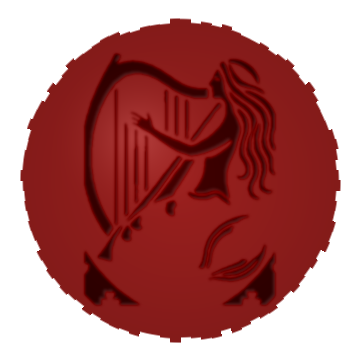
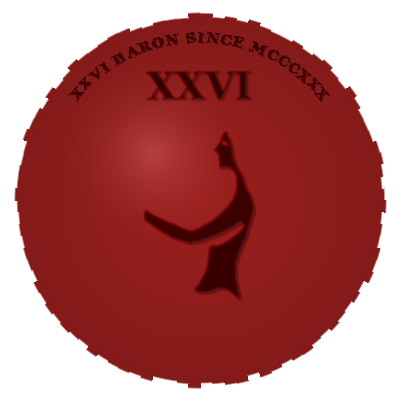
Fergus letterhead: revised header, sign-off, seal, body in handwriting
Four refinements per the Chief's direction:

1. HEADER subline RESTORED. 'An Ancient Gaelic Royal House' is
   back beneath the clan name as preferred. The previous removal
   was over-correction.

2. SIGN-OFF in single font. 'Fergus Kinfauns, The Commane' and
   'Chief of Ó Comáin' both now in the same EB Garamond serif at
   the same size and weight, no italic-gold treatment on 'The
   Commane'. Cleaner, more unified.

3. WAX SEAL redrawn — mermaid only, no harp.
   - Just the mermaid figure (extracted from the right side of
     the shield, harp removed) embossed in the centre of the
     wax disc
   - 'XXVI' Roman numeral above her — referencing the 26th
     Lord Kinfauns, the Chief's subtle Scottish title held
     since 1330 (not used in Ireland, but quietly carried)
   - 'XXVI BARON SINCE MCCCXXX' legend curving around the
     top edge in small serif caps — the historical anchor in
     classical form
   - Same wax aesthetic preserved: deep red, hand-pressed
     irregular edge, embossed 3D feel, directional lighting
   File: the_commane_seal.png (40KB, 400x400 RGBA)

4. BODY in HANDWRITING font. Replaced the prior draft body copy
   with the Chief's own letter, set in 'Caveat' (Google Fonts) —
   refined cursive that reads naturally at body sizes. Falls back
   to Bradley Hand / cursive on clients that block web fonts. The
   body now genuinely feels like a personal letter rather than
   typed correspondence.
[…]

Changed region(s): [[0.0306, 0.0306, 0.9778, 0.9778]]

diff --git a/email-previews-fergus-mockup/the-chiefs-letter.html b/email-previews-fergus-mockup/the-chiefs-letter.html
@@ -5,6 +5,14 @@
   <meta name="robots" content="noindex,nofollow">
   <meta name="viewport" content="width=device-width, initial-scale=1.0">
   <title>The Chief's letter — preview · Clan Ó Comáin</title>
+
+  <!-- Handwriting font for the body — 'Caveat' is a refined, slightly
+       irregular handwriting face that reads as natural cursive at body
+       sizes. Loaded from Google Fonts; falls back to Bradley Hand /
+       cursive on clients that don't load web fonts. -->
+  <link rel="preconnect" href="https://fonts.googleapis.com">
+  <link rel="preconnect" href="https://fonts.gstatic.com" crossorigin>
+  <link href="https://fonts.googleapis.com/css2?family=Caveat:wght@400;500&display=swap" rel="stylesheet">
 </head>
 <body style="margin:0;padding:24px 12px;background:#f3eee2;font-family:'EB Garamond','Georgia',serif">
 
@@ -13,9 +21,6 @@
 
     <!-- =============================================================
          THE LETTERHEAD ITSELF
-         Heavy cream paper with subtle texture, gold rule frames,
-         engraved-style header, blind-stamp watermark, plain warm body,
-         handwritten signature, no CTA button.
          ============================================================= -->
     <div style="position:relative;background:#FAF4E6;background-image:radial-gradient(ellipse at center,#FBF6E9 0%,#F5EFD8 100%);border:1px solid #D8C99A;box-shadow:0 24px 64px rgba(20,30,15,.16),0 4px 12px rgba(20,30,15,.08);overflow:hidden">
 
@@ -25,11 +30,14 @@
         <!-- ─────────── HEADER ─────────── -->
         <div style="padding:42px 48px 32px;text-align:center;border-bottom:1px solid rgba(184,151,90,.4);position:relative">
 
-          <!-- Engraved-style coat of arms — small, refined -->
+          <!-- Engraved-style coat of arms -->
           <img src="https://www.ocomain.org/coat_of_arms.png" alt="Clan Ó Comáin" width="68" style="display:block;margin:0 auto 14px;height:auto;opacity:.92">
 
-          <!-- The clan name only — letter-spaced like an engraver's plate -->
-          <p style="font-family:'EB Garamond','Georgia',serif;font-size:13px;font-weight:600;letter-spacing:.32em;color:#8B6F32;margin:0 0 18px;text-transform:uppercase">Ó Comáin</p>
+          <!-- The clan name — letter-spaced like an engraver's plate -->
+          <p style="font-family:'EB Garamond','Georgia',serif;font-size:11px;font-weight:600;letter-spacing:.32em;color:#8B6F32;margin:0 0 4px;text-transform:uppercase">Clan Ó Comáin</p>
+
+          <!-- Italic subline — restored per Chief's preference -->
+          <p style="font-family:'EB Garamond','Georgia',serif;font-size:13px;font-style:italic;color:#6C5A4A;margin:0 0 18px;letter-spacing:.04em">An Ancient Gaelic Royal House</p>
 
           <!-- Decorative gold rule with diamond ornament -->
           <div style="display:inline-block;text-align:center">
@@ -38,7 +46,7 @@
             <div style="display:inline-block;width:50px;height:1px;background:#B8975A;vertical-align:middle"></div>
           </div>
 
-          <!-- "From the desk of..." — the engraved address line -->
+          <!-- "From the desk of..." — engraved address line -->
           <p style="font-family:'EB Garamond','Georgia',serif;font-size:10px;font-weight:600;letter-spacing:.22em;color:#5A4A2F;margin:14px 0 0;text-transform:uppercase">From the desk of the Chief</p>
           <p style="font-family:'EB Garamond','Georgia',serif;font-size:10px;letter-spacing:.18em;color:#7A6A4F;margin:4px 0 0;text-transform:uppercase">Newhall Estate &middot; County Clare &middot; Ireland</p>
 
@@ -52,43 +60,44 @@
             <img src="https://www.ocomain.org/coat_of_arms.png" alt="" width="380" style="display:inline-block;opacity:.05;height:auto;max-width:80%">
           </div>
 
-          <!-- Body content sits above the watermark -->
-          <div style="position:relative;z-index:1">
+          <!-- Body content — Fergus's own words, set in a handwriting font -->
+          <div style="position:relative;z-index:1;font-family:'Caveat','Bradley Hand',cursive;color:#1F2A1F">
 
             <!-- Salutation -->
-            <p style="font-family:'EB Garamond','Georgia',serif;font-size:18px;color:#1A1A1A;line-height:1.5;margin:0 0 24px">Dear Aoife,</p>
+            <p style="font-size:28px;line-height:1.4;margin:0 0 18px;font-weight:500">Dear Aoife,</p>
 
-            <!-- Body paragraphs — slightly larger and more breathable than standard -->
-            <p style="font-family:'EB Garamond','Georgia',serif;font-size:18px;color:#1F2A1F;line-height:1.85;margin:0 0 22px">A short word from Newhall, by my own hand.</p>
+            <p style="font-size:24px;line-height:1.55;margin:0 0 14px;font-weight:400">It is my pleasure to welcome you to the newly revived Clan Ó Comáin!</p>
 
-            <p style="font-family:'EB Garamond','Georgia',serif;font-size:18px;color:#1F2A1F;line-height:1.85;margin:0 0 22px">It is the custom of the Office to send the formalities — the certificate, the seal, the entry in the Register. I wanted to write to you directly, beyond all of that, simply to say that I am glad you are here.</p>
+            <p style="font-size:24px;line-height:1.55;margin:0 0 14px;font-weight:400">After a long suppression of 800 years, the clan is back, and I am thrilled that you have chosen to be a part of our founding family in 2026.</p>
 
-            <p style="font-family:'EB Garamond','Georgia',serif;font-size:18px;color:#1F2A1F;line-height:1.85;margin:0 0 22px">The clan came near to vanishing. Between the Penal years, the Famine, and the great emigrations that followed, the line frayed almost to nothing. That you and others are choosing to gather back to it now — from across the world, across the surnames the Anglicising clerks scattered, across the long centuries — is the slow undoing of that long unmaking.</p>
+            <p style="font-size:24px;line-height:1.55;margin:0 0 14px;font-weight:400">I am incredibly excited to grow our community and would love for you to help &amp; support me and be a part of that journey. I encourage you to browse our website to learn more about our shared heritage, the fascinating history of Irish clans, and how our ancestors lived under Brehon Law. Don&apos;t forget to explore the special Private Members&apos; area.</p>
 
-            <p style="font-family:'EB Garamond','Georgia',serif;font-size:18px;color:#1F2A1F;line-height:1.85;margin:0 0 22px">Whatever brought you to the door, you are welcome at it. Whatever your line, whatever name you carry, your place in the Register is real and the seal upon your certificate is set by my own hand.</p>
+            <p style="font-size:24px;line-height:1.55;margin:0 0 14px;font-weight:400">Here&rsquo;s to a long and wonderful friendship!</p>
 
-            <p style="font-family:'EB Garamond','Georgia',serif;font-size:18px;color:#1F2A1F;line-height:1.85;margin:0 0 32px">Linda and the Office shall write to you in the weeks to come on the matters that need attending to. From me, only this: there is a house in County Clare where the lights are on, and you have a place at it.</p>
+            <!-- Sign-off — Slán go fóill in italic with translation -->
+            <p style="font-size:24px;line-height:1.55;margin:0 0 8px;font-weight:400;font-style:italic">Slán go fóill <span style="font-style:normal;color:#5A6A5A;font-size:20px">— (goodbye for now)</span></p>
 
-            <!-- Sign-off line -->
-            <p style="font-family:'EB Garamond','Georgia',serif;font-size:18px;font-style:italic;color:#1F2A1F;line-height:1.6;margin:0 0 8px">Yours, in clan and kindred,</p>
-
-            <!-- Signature row: handwritten signature on the left, wax seal beside it on the right -->
-            <table role="presentation" cellpadding="0" cellspacing="0" border="0" style="margin:8px 0 0;border-collapse:collapse">
+            <!-- Signature row: handwritten signature on the left, wax seal on the right -->
+            <table role="presentation" cellpadding="0" cellspacing="0" border="0" style="margin:18px 0 0;border-collapse:collapse">
               <tr>
-                <td style="vertical-align:middle;padding-right:24px">
-                  <!-- The handwritten signature image -->
+                <td style="vertical-align:middle;padding-right:28px">
                   <img src="https://www.ocomain.org/the_commane_signature.png" alt="The Commane (signed)" style="display:block;width:240px;height:auto">
                 </td>
                 <td style="vertical-align:middle">
-                  <!-- The wax seal — mermaid crest only, no shield -->
-                  <img src="https://www.ocomain.org/the_commane_seal.png" alt="Clan Ó Comáin · sealed by The Commane" style="display:block;width:84px;height:auto">
+                  <img src="https://www.ocomain.org/the_commane_seal.png" alt="The Commane · sealed" style="display:block;width:96px;height:auto">
                 </td>
               </tr>
             </table>
 
-            <!-- Below signature — small typed name and title -->
-            <p style="font-family:'EB Garamond','Georgia',serif;font-size:13px;color:#1A1A1A;letter-spacing:.02em;margin:14px 0 2px">Fergus Kinfauns, <em style="font-style:italic;color:#8B6F32">The Commane</em></p>
-            <p style="font-family:'EB Garamond','Georgia',serif;font-size:12px;color:#5A4A2F;letter-spacing:.02em;margin:0">Chief of Ó Comáin</p>
+            <!-- Below signature — name + title, both in single font / single style -->
+            <p style="font-family:'EB Garamond','Georgia',serif;font-size:13px;color:#1A1A1A;letter-spacing:.02em;margin:14px 0 2px;font-style:normal">Fergus Kinfauns, The Commane</p>
+            <p style="font-family:'EB Garamond','Georgia',serif;font-size:13px;color:#1A1A1A;letter-spacing:.02em;margin:0;font-style:normal">Chief of Ó Comáin</p>
+
+            <!-- Famous Fergus PS — handwritten, set off with thin gold left-rule -->
+            <p style="font-size:22px;line-height:1.55;margin:32px 0 0;padding-left:24px;border-left:2px solid #B8975A;color:#3A4A3A;font-weight:400">
+              <span style="font-family:'EB Garamond','Georgia',serif;font-size:11px;font-weight:700;letter-spacing:.18em;color:#8B6F32;text-transform:uppercase;display:block;margin-bottom:6px;font-style:normal">P.S.</span>
+              &ldquo;Know someone who belongs with us? Inviting them is easy through your members&apos; area!&rdquo;
+            </p>
 
           </div>
 
@@ -96,24 +105,18 @@
 
         <!-- ─────────── FOOTER ─────────── -->
         <div style="text-align:center;padding:18px 32px 28px;border-top:1px solid rgba(184,151,90,.4);background:rgba(184,151,90,.04)">
-
-          <!-- Decorative gold rule with diamond -->
           <div style="display:inline-block;text-align:center;margin-bottom:10px">
             <div style="display:inline-block;width:36px;height:1px;background:#B8975A;vertical-align:middle"></div>
             <span style="display:inline-block;width:5px;height:5px;background:#B8975A;transform:rotate(45deg);margin:0 8px;vertical-align:middle"></span>
             <div style="display:inline-block;width:36px;height:1px;background:#B8975A;vertical-align:middle"></div>
           </div>
-
           <p style="font-family:'EB Garamond','Georgia',serif;font-size:12px;font-style:italic;color:#8B6F32;margin:0 0 4px;letter-spacing:.02em">Caithfidh an stair a bheith i réim &mdash; History must prevail</p>
         </div>
 
       </div>
     </div>
 
-    <!-- =============================================================
-         OUTSIDE THE LETTERHEAD: a quiet email-client footer with the
-         compliance unsubscribe etc. NOT styled as part of the letter.
-         ============================================================= -->
+    <!-- Quiet email-client footer outside the letterhead -->
     <div style="max-width:580px;margin:24px auto 0;padding:0 16px;text-align:center;font-family:'EB Garamond','Georgia',serif;font-size:11px;color:#8a8576;line-height:1.6">
       <p style="margin:0 0 6px">This message is from the Chief of Clan Ó Comáin, sent to members of the kindred.</p>
       <p style="margin:0">Clan Ó Comáin &middot; Newhall House, County Clare, Ireland &middot; <a href="https://www.ocomain.org" style="color:#8B6F32">www.ocomain.org</a></p>
@@ -121,16 +124,12 @@
 
   </div>
 
-  <!-- =============================================================
-       NOTE FOR REVIEW PAGE — small annotation visible on this preview
-       only (not in the actual sent email).
-       ============================================================= -->
+  <!-- Notes panel for the Council & Chief — not part of the actual email -->
   <div style="max-width:640px;margin:48px auto 0;padding:24px 28px;background:#fff;border:1px solid #d8d2c0;border-left:3px solid #B8975A;border-radius:1px;font-family:'EB Garamond',serif;font-size:14px;line-height:1.65;color:#3a3a30">
-    <p style="margin:0 0 10px;font-family:'Helvetica Neue',sans-serif;font-size:10px;font-weight:700;letter-spacing:.18em;color:#8B6F32;text-transform:uppercase">Notes for the Council & Chief — not part of the email</p>
-    <p style="margin:0 0 10px"><strong>What this is.</strong> A standalone visual mockup of the Chief's letter, the second email in the new post-signup lifecycle (sent at +9 days). Distinct from every other email in the sequence — heavy cream paper, gold-rule frame, engraved header, blind-stamp watermark behind the body, the actual handwritten signature, no CTA button.</p>
-    <p style="margin:0 0 10px"><strong>Why no CTA.</strong> The Chief writes; he does not ask. The absence of a button is itself the status signal — every other email in the sequence has one, this is the one moment that does not.</p>
-    <p style="margin:0 0 10px"><strong>What is fixed before write-up.</strong> Visual chrome: paper texture, gold-rule frame, header layout, watermark, signature placement, footer treatment. Body copy is a draft — to be revised based on the Chief's voice and any additions he wishes to make.</p>
-    <p style="margin:0"><strong>Mock recipient.</strong> Aoife — a fictitious diaspora member used for preview rendering only.</p>
+    <p style="margin:0 0 10px;font-family:'Helvetica Neue',sans-serif;font-size:10px;font-weight:700;letter-spacing:.18em;color:#8B6F32;text-transform:uppercase">Notes for the Council &amp; Chief — not part of the email</p>
+    <p style="margin:0 0 10px"><strong>What is new in this revision.</strong> Header subline &lsquo;An Ancient Gaelic Royal House&rsquo; restored. Sign-off &lsquo;Fergus Kinfauns, The Commane&rsquo; now in a single font with no italic-gold treatment. Wax seal redrawn: just the mermaid (no harp), with &lsquo;XXVI&rsquo; Roman numeral over her and &lsquo;XXVI BARON SINCE MCCCXXX&rsquo; legend curving around the top edge — a subtle reference to the Chief&apos;s 26th Lord Kinfauns Scottish title held since 1330. Body letter is the Chief&apos;s own words, set in a handwriting font (&lsquo;Caveat&rsquo;) to feel like a real personal letter rather than typed correspondence.</p>
+    <p style="margin:0 0 10px"><strong>The handwriting font.</strong> &lsquo;Caveat&rsquo; from Google Fonts — refined, slightly irregular, reads naturally at large sizes. Falls back to Bradley Hand / cursive on clients that block web fonts. If the Chief prefers a different cursive face we can swap (e.g., &lsquo;Homemade Apple&rsquo; for a more rounded hand, &lsquo;Dancing Script&rsquo; for sharper, or generate the body as an image for true ink-on-paper feel).</p>
+    <p style="margin:0"><strong>The famous PS.</strong> Set off with a thin gold left-rule and a small-caps &lsquo;P.S.&rsquo; eyebrow above, carrying through the same handwriting font as the body. Distinct but visually continuous.</p>
   </div>
 
 </body>
